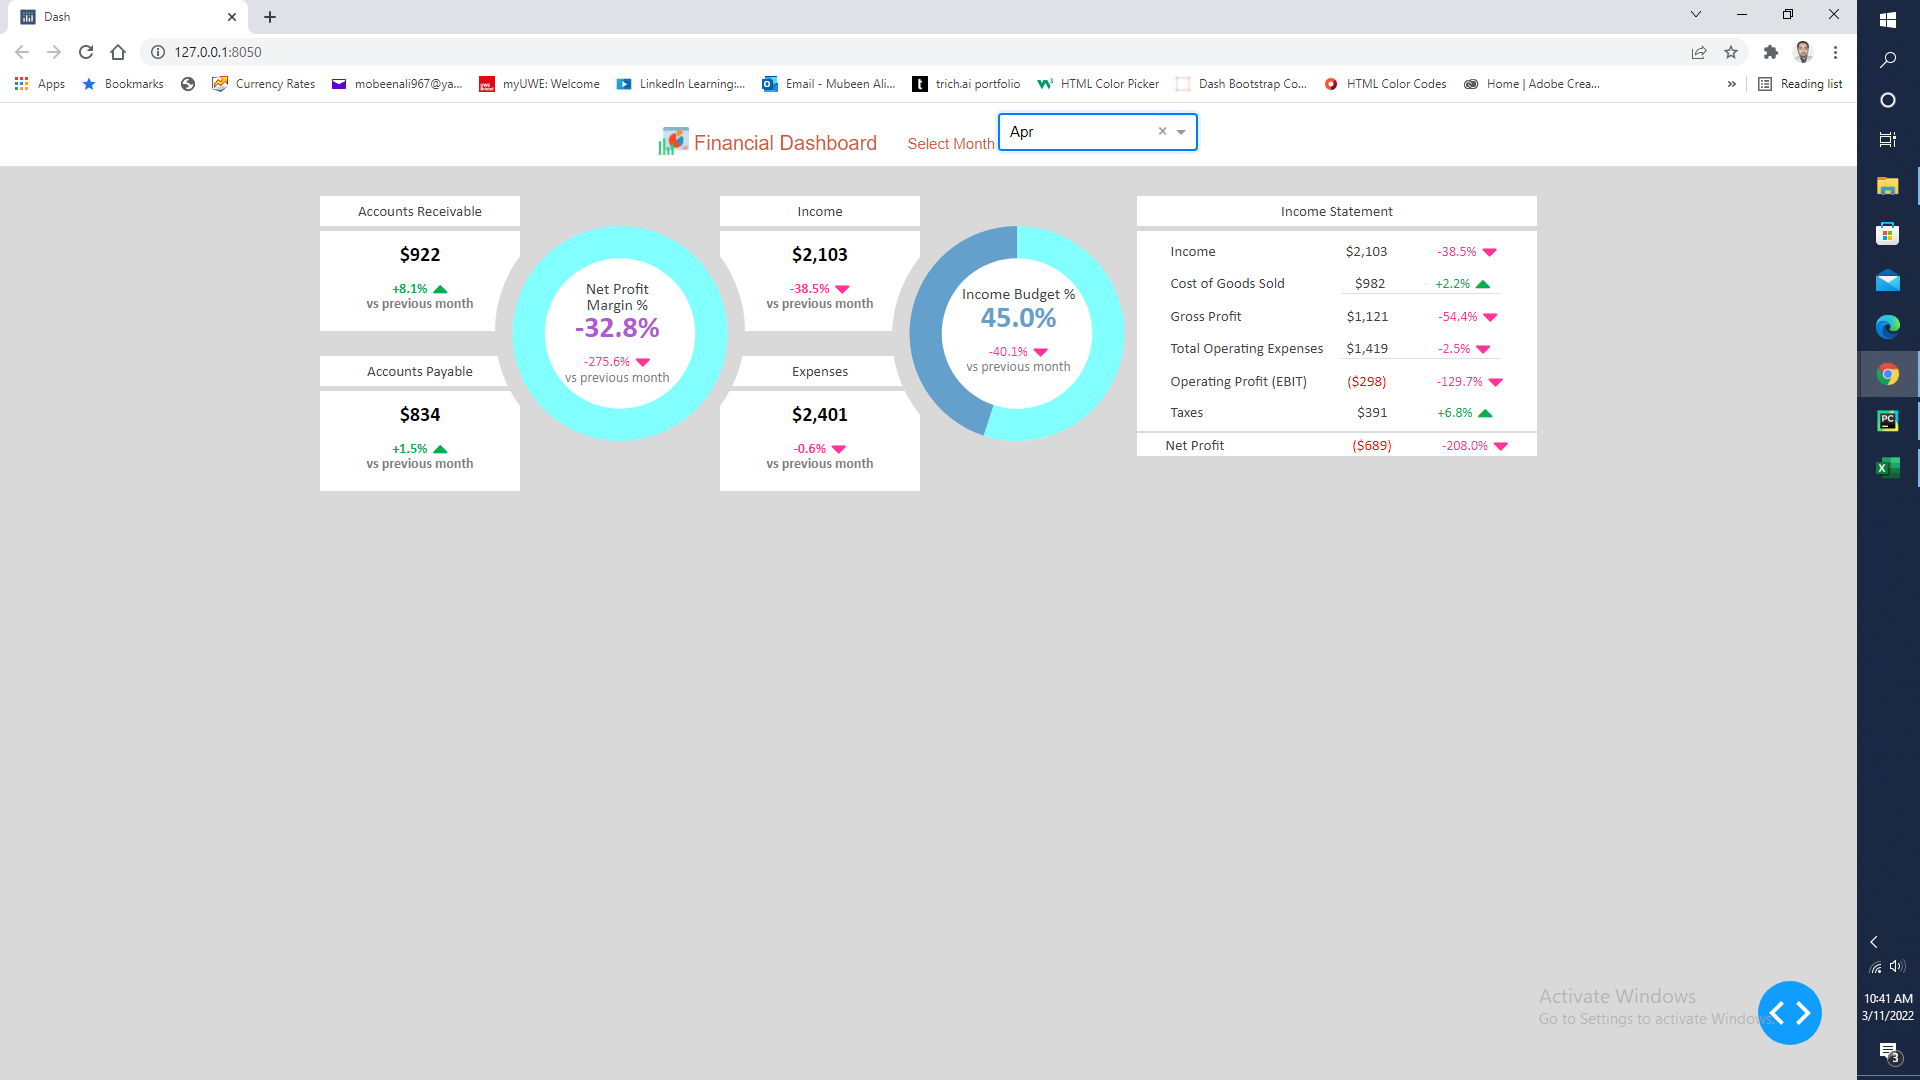
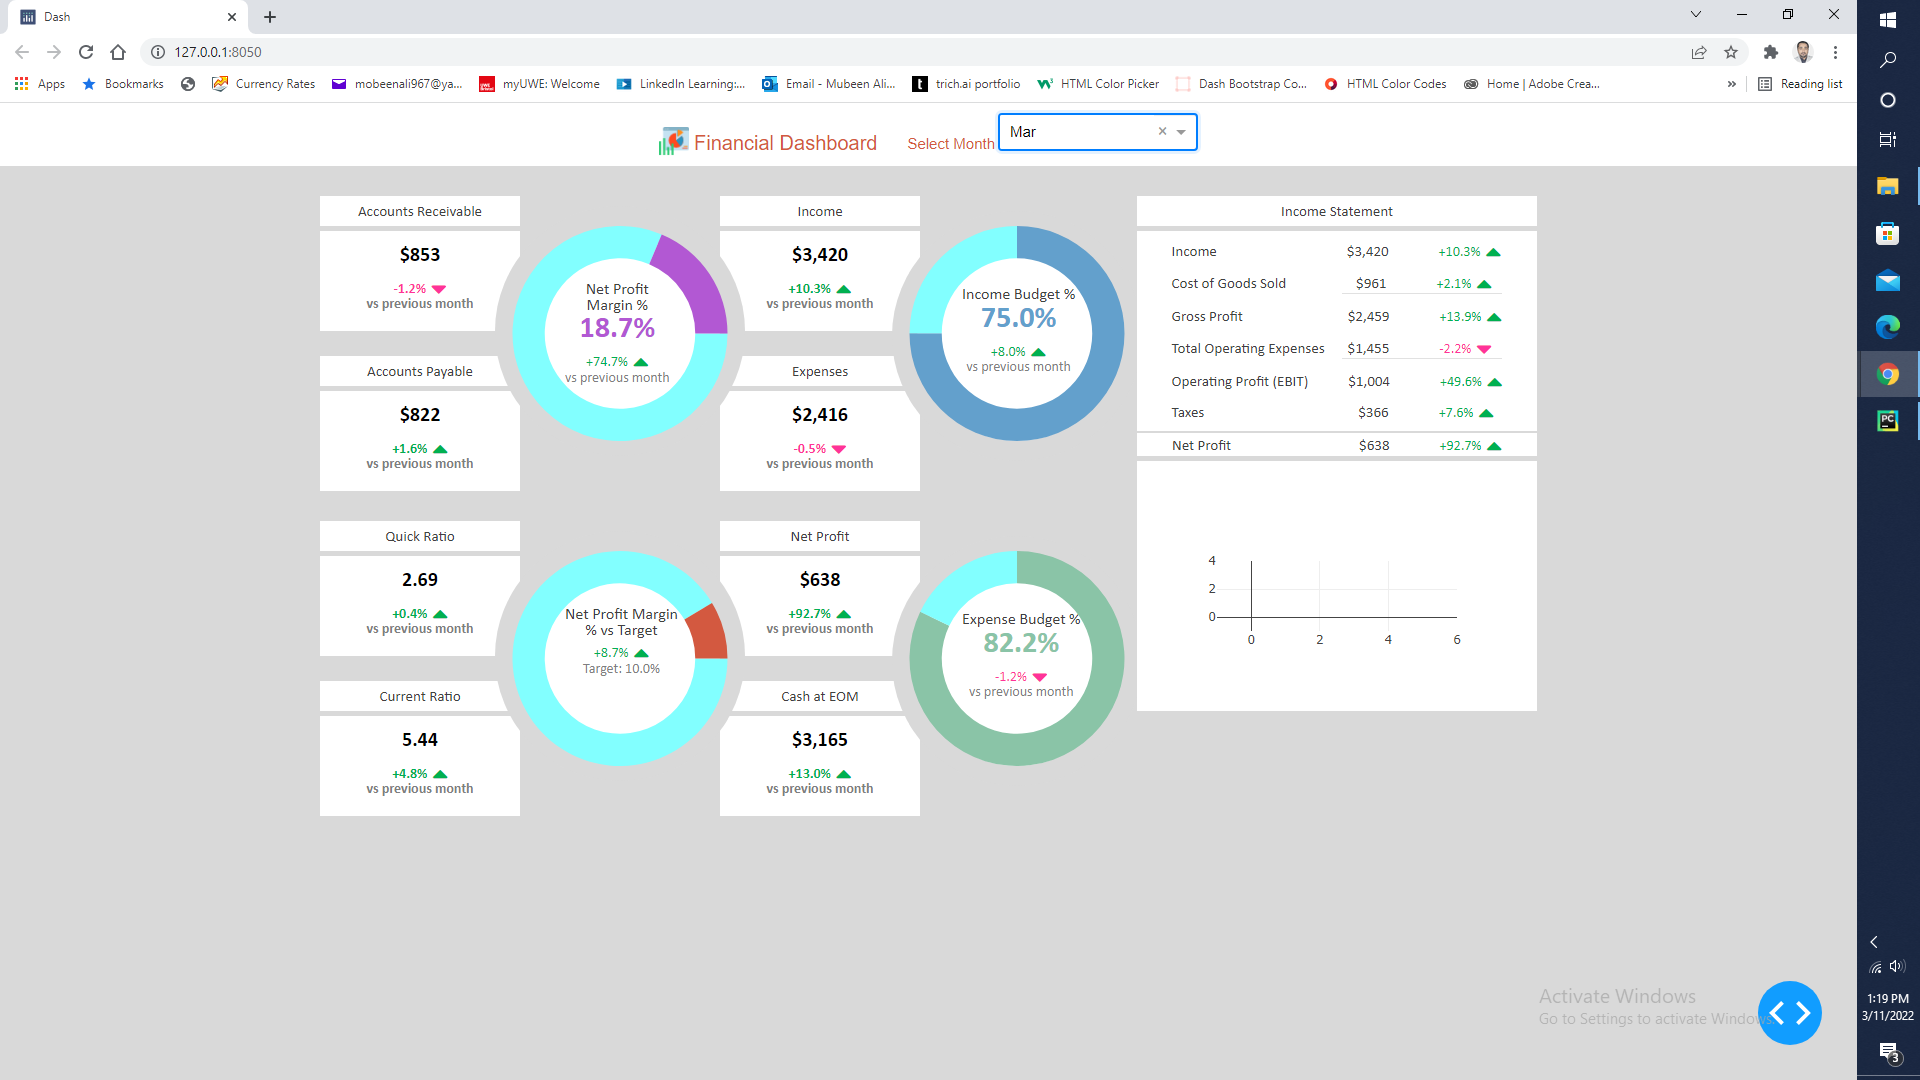
first commit

diff --git a/assets/style.css b/assets/style.css
@@ -398,6 +398,24 @@ body {
   margin-top: -60px;
 }
 
+.line_chart_size {
+  display: flex;
+  flex-direction: row;
+  background-color: #FFFFFF;
+  width: 805px;
+  height: 150px;
+  margin-top: 5px;
+}
+
+.combination_chart_size {
+  display: flex;
+  flex-direction: row;
+  background-color: #FFFFFF;
+  width: 400px;
+  height: 255px;
+  margin-top: -100px;
+}
+
 .net_profit {
   display: flex;
   flex-direction: row;
@@ -434,6 +452,14 @@ body {
   flex-direction: row;
   justify-content: center;
   flex-wrap: wrap;
+}
+
+.last_row {
+  display: flex;
+  flex-direction: row;
+  justify-content: center;
+  flex-wrap: wrap;
+  column-gap: 12px;
 }
 
 .numeric_value {

diff --git a/index.py b/index.py
@@ -333,78 +333,21 @@ app.layout = html.Div([
                       className = 'donut_chart_size'),
 
             html.Div([
-                #     html.Div([
-                #             html.Div([
-                #                 html.P('Income Statement',
-                #                        className = 'format_text')
-                #             ], className = 'income_statement'),
-                #
-                #             html.Div([
-                #                 html.Div([
-                #                     html.Div([
-                #                         html.P('Income',
-                #                                className = 'income_statement_title'
-                #                                ),
-                #                         html.Div(id = 'income_statement1',
-                #                                  className = 'income_statement1'),
-                #                     ], className = 'income_statement_indicator_row1'),
-                #                     html.Div([
-                #                         html.P('Cost of Goods Sold',
-                #                                className = 'income_statement_title'
-                #                                ),
-                #                         html.Div(id = 'income_statement2',
-                #                                  className = 'income_statement1')
-                #                     ], className = 'income_statement_indicator_row2'),
-                #                     html.Hr(className = 'bottom_border'),
-                #                     html.Div([
-                #                         html.P('Gross Profit',
-                #                                className = 'income_statement_title'
-                #                                ),
-                #                         html.Div(id = 'income_statement3',
-                #                                  className = 'income_statement1'),
-                #                     ], className = 'income_statement_indicator_row3'),
-                #                     html.Div([
-                #                         html.P('Total Operating Expenses',
-                #                                className = 'income_statement_title'
-                #                                ),
-                #                         html.Div(id = 'income_statement4',
-                #                                  className = 'income_statement1')
-                #                     ], className = 'income_statement_indicator_row4'),
-                #                     html.Hr(className = 'bottom_border'),
-                #                     html.Div([
-                #                         html.P('Operating Profit (EBIT)',
-                #                                className = 'income_statement_title'
-                #                                ),
-                #                         html.Div(id = 'income_statement5',
-                #                                  className = 'income_statement1'),
-                #                     ], className = 'income_statement_indicator_row5'),
-                #                     html.Div([
-                #                         html.P('Taxes',
-                #                                className = 'income_statement_title'
-                #                                ),
-                #                         html.Div(id = 'income_statement6',
-                #                                  className = 'income_statement1')
-                #                     ], className = 'income_statement_indicator_row6'),
-                #                 ], className = 'in_state_column')
-                #             ], className = 'income_statement_multiple_values'),
-                #         ], className = 'income_statement_column1'),
-                #         html.Div([
-                #             html.Div([
-                #                 html.Div([
-                #                     html.P('Net Profit',
-                #                            className = 'income_statement_title'
-                #                            ),
-                #                     html.Div(id = 'income_statement7',
-                #                              className = 'income_statement1')
-                #                 ], className = 'income_statement_indicator_row7'),
-                #             ], className = 'net_profit_column')
                 dcc.Graph(id = 'bar_chart',
                           config = {'displayModeBar': False},
                           className = 'bar_chart_size'),
-                #     ], className = 'net_profit'),
             ], className = 'net_profit2'),
         ], className = 'income_statement_row')
     ], className = 'f_row'),
+
+    html.Div([
+        dcc.Graph(id = 'line_chart',
+                  config = {'displayModeBar': False},
+                  className = 'line_chart_size'),
+        dcc.Graph(id = 'combination_chart',
+                  config = {'displayModeBar': False},
+                  className = 'combination_chart_size'),
+    ], className = 'last_row')
 ])
 
 
@@ -1958,6 +1901,99 @@ def update_graph(select_month):
         ),
 
     }
+
+
+@app.callback(Output('bar_chart', 'figure'),
+              [Input('select_month', 'value')])
+def update_graph(select_month):
+    if select_month is None:
+        raise PreventUpdate
+    else:
+        filter_month = data[data['months'] == select_month]
+        income = filter_month['income'].iloc[0]
+        cost_of_goods_sold = filter_month['cost of goods sold'].iloc[0]
+        gross_profit = filter_month['gross profit'].iloc[0]
+        total_operating_expenses = filter_month['total operating expenses'].iloc[0]
+        operating_profit_EBIT = filter_month['operating profit (EBIT)'].iloc[0]
+        taxes = filter_month['Taxes'].iloc[0]
+        net_profit = filter_month['net profit'].iloc[0]
+        object_data = [['income', income], ['cost of goods sold', cost_of_goods_sold],
+                       ['gross profit', gross_profit], ['total operating expenses', total_operating_expenses],
+                       ['operating profit ebit', operating_profit_EBIT], ['taxes', taxes],
+                       ['net profit', net_profit]]
+        df = pd.DataFrame(object_data, columns = ['Text', 'Value'])
+        bar_color = np.where(df['Value'] > 0, '#B258D3', '#FF3399')
+        # bar_color1 = np.where(df['Value'] > 0, '#B258D3', '#FF3399')
+
+        return {
+            'data': [go.Bar(x = df['Text'],
+                            y = df['Value'],
+                            # text = df['Value'],
+                            # texttemplate = '%{text:,.0f}',
+                            # textposition = "none",
+                            # textfont = dict(
+                            #     family = "Calibri",
+                            #     size = 14,
+                            #     color = bar_color1,
+                            # ),
+                            marker = dict(color = bar_color),
+                            width = 0.5,
+                            orientation = 'v',
+                            hoverinfo = 'text',
+                            hovertext =
+                            '' + df['Text'].astype(str) + '<br>' +
+                            '$' + [f'{x:,.0f}' for x in df['Value']] + '<br>'
+                            )],
+
+            'layout': go.Layout(
+                plot_bgcolor = 'rgba(0,0,0,0)',
+                paper_bgcolor = 'rgba(0,0,0,0)',
+                title = {'text': 'Income Statement',
+                         'y': 0.97,
+                         'x': 0.5,
+                         'xanchor': 'center',
+                         'yanchor': 'top'},
+                titlefont = {'color': '#404040',
+                             'size': 16,
+                             'family': 'Calibri', },
+                margin = dict(r = 20, t = 20, b = 20, l = 70),
+                xaxis = dict(title = '<b></b>',
+                             visible = True,
+                             color = 'white',
+                             showline = False,
+                             showgrid = False,
+                             showticklabels = False,
+                             linecolor = 'white',
+                             linewidth = 0,
+                             ticks = 'outside',
+                             tickfont = dict(
+                                 family = 'Arial',
+                                 size = 12,
+                                 color = 'white')
+                             ),
+
+                yaxis = dict(title = '<b></b>',
+                             tickprefix = '$',
+                             tickformat = ',.0f',
+                             visible = True,
+                             color = 'white',
+                             showline = False,
+                             showgrid = False,
+                             showticklabels = True,
+                             linecolor = 'white',
+                             linewidth = 1,
+                             ticks = 'outside',
+                             tickfont = dict(
+                                 family = 'Calibri',
+                                 size = 15,
+                                 color = '#404040')
+                             ),
+                font = dict(
+                    family = "sans-serif",
+                    size = 12,
+                    color = 'white'),
+            )
+        }
 
 
 if __name__ == "__main__":
